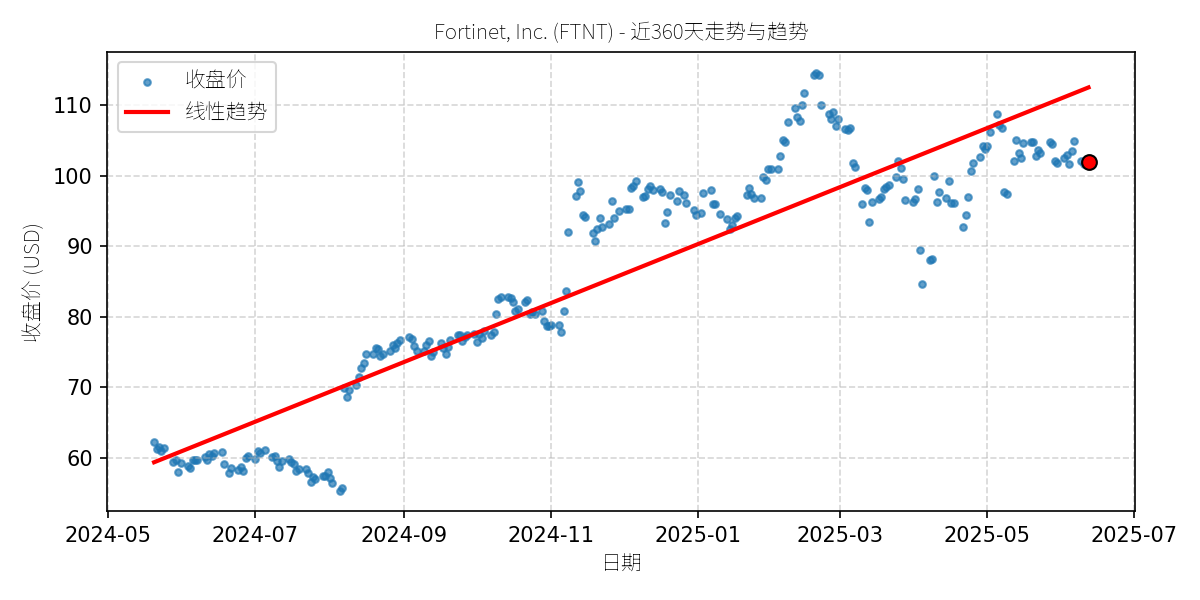
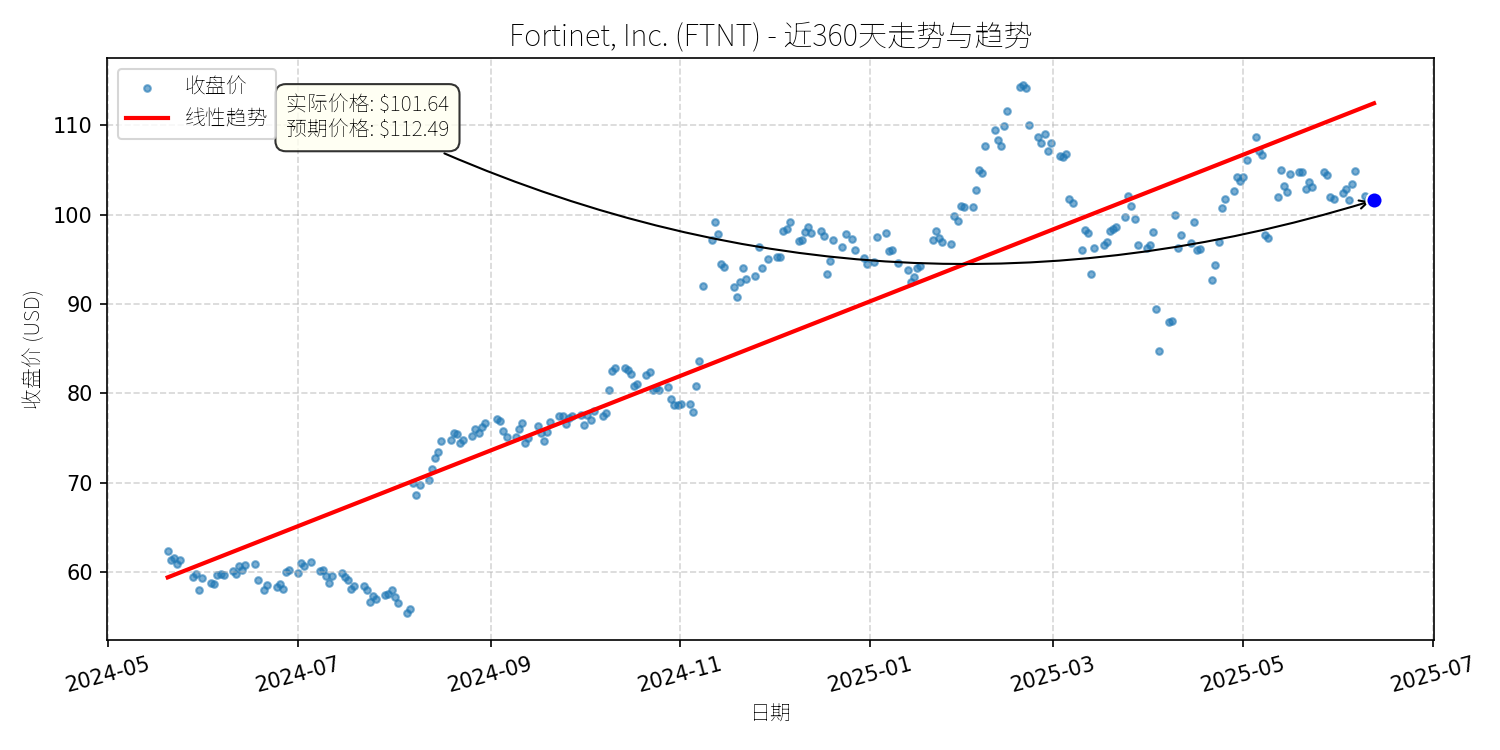
Update report for 2025-06-13

diff --git a/reports/2025-06-13/stock_report.html b/reports/2025-06-13/stock_report.html
@@ -106,7 +106,64 @@
 <div class="container">
     <h1>股票异动分析报告</h1>
     <p class="report-date">报告生成日期: 2025-06-13</p>
-<p>今日未发现符合条件的异常股票。</p>
+<div class="toc"><h3>报告目录</h3><ul><li><a href="#FTNT">Fortinet, Inc. (FTNT)</a></li></ul></div><div class="stock-card" id="FTNT"><h2>Fortinet, Inc. (FTNT)</h2><div class='metrics'><span>R²: 0.826</span> <span>斜率: 0.14</span> <span>偏离度: 9.64%</span></div><img src='FTNT_chart.png' alt='FTNT 走势图' class='chart'><h3>分析师模型总结</h3><div class="summary-content"># Fortinet, Inc. (FTNT) 投资分析报告（2025-06-13）
+
+
+## **1. 核心业务与基本面评估**
+### **1.1 业务概述**  
+Fortinet是全球领先的网络安全解决方案供应商，核心业务围绕**“Security Fabric”**生态系统展开，涵盖下一代防火墙（Next-Gen Firewalls）、统一安全访问服务边缘（Unified SASE）、安全运营（SecOps）平台、云安全等50+企业级安全产品。公司服务于86万+客户，覆盖企业、政府及服务提供商，核心竞争力在于**自研定制芯片**（优化硬件与软件协同）及**全栈安全集成能力**（减少客户对多厂商的依赖）。
+
+
+### **1.2 财务健康与盈利能力**  
+- **营收与利润增长**：2014-2024年，营收CAGR达23%（2024年营收53亿美元），EPS CAGR高达54%（2024年EPS 1.47美元），显示强劲的成长能力。2025年Q1营收同比增长14%（超预期），调整后EPS增长35%，主要驱动来自Unified SASE（RPO同比增长19%）与SecOps（RPO同比增长18%）业务的快速渗透（两者占总RPO的1/3）。  
+- **财务稳健性**：债务权益比（Debt To Equity）为-16.66%（负数表示现金及等价物超过总债务），说明公司无偿债压力，现金流充足（2024年净收入11.5亿美元），具备抗风险能力。  
+- **估值水平**：当前PE（69.14x）显著高于纳斯达克100指数（29x）及行业均值（如CrowdStrike的105x、Palo Alto Networks的75x），但低于纯云安全厂商（如Zscaler的120x）；PS（14.66x）亦处于行业较高区间。**定性评估**：财务稳健、成长性强，但估值偏高（需业绩高增长支撑）。
+
+
+## **2. 技术面与消息面分析**
+### **2.1 技术面信号**  
+- **长期趋势**：图表显示，FTNT近360天呈**上升线性趋势**（红 line），趋势线斜率为正，说明长期多头主导。  
+- **当前偏离**：当前价格（101.64美元）显著低于趋势线预期价格（112.49美元），偏离幅度约10%，属于**技术性回调**（价格脱离长期趋势后的短期修正）。  
+- **支撑位与阻力位**：近期回调至100美元附近（2025年5月以来的重要支撑），若跌破可能测试95美元（2025年3月低点）；阻力位在110美元（趋势线附近）。
+
+
+### **2.2 回调原因分析**  
+- **直接触发因素**：2025年Q1财报（5月7日）后，股价下跌约8%，主要因**Q2 guidance 保守**（预期营收16.2亿美元，略低于市场共识的16.5亿美元，同比增长13%，较Q1的14%放缓）。市场担忧增长减速，叠加前期涨幅过大（2024年至今涨幅74%），引发短期抛售。  
+- **深层原因**：  
+  1. **估值压力**：PE（69x）与PS（14.66x）处于历史高位，需业绩超预期才能支撑估值；  
+  2. **行业竞争**：云安全厂商（如CrowdStrike）凭借AI-native架构抢占市场，Fortinet的“legacy on-premises firewall”业务被视为增长瓶颈（参考2025年4月24日新闻）；  
+  3. **宏观情绪**：2025年以来科技股整体回调（纳斯达克指数下跌10%）， cybersecurity板块虽相对抗跌，但FTNT因估值偏高易受情绪影响。  
+
+
+## **3. 综合前景展望与量化判断**
+### **3.1 核心投资逻辑**  
+Fortinet是**“基本面优秀+短期情绪压制”**的典型案例：  
+- **长期支撑**：行业高增长（网络安全市场2024-2032年CAGR 15.29%，应用网关市场CAGR 10.2%）；公司Unified SASE与SecOps业务快速增长（RPO增速超整体）；管理层提到“2025年下半年将迎来record firewall upgrade cycle”（驱动营收反弹）。  
+- **短期压制**：Q2 guidance 保守引发的估值担忧，及科技股回调的情绪传导。**无重大基本面恶化**（如营收下滑、客户流失），回调属于**技术性调整+情绪释放**。
+
+
+### **3.2 短期展望（未来1-4周）**  
+- **走势预测**：**盘整后小幅反弹**（概率70%）。  
+  理由：100美元附近有强支撑（2025年5月低点），市场已消化Q2 guidance的利空；管理层强调下半年upgrade cycle，短期情绪有望修复。  
+- **短期目标价**：110美元（趋势线附近）。  
+  **涨跌幅空间**：(110 - 101.64) / 101.64 ≈ +8.2%。
+
+
+### **3.3 长期展望（未来3-6个月）**  
+- **趋势判断**：**看好**（概率80%），有望重回长期上升趋势。  
+  理由：  
+  1. **行业驱动**：网络安全是“刚需”（ cyber威胁升级、数字化转型加速），市场规模2032年将达797亿美元（CAGR 15.29%），Fortinet作为头部厂商（市场份额约8%）将持续受益；  
+  2. **业务升级**：Unified SASE（整合网络与安全）与SecOps（AI驱动的安全运营）业务占比提升（当前占RPO的1/3），将推动营收结构优化（高毛利的云服务占比增加）；  
+  3. **估值修复**：若2025年下半年营收超预期（如Q3营收增长15%以上），PE将从69x降至60x以下（仍高于行业均值，但符合成长股定位）。  
+- **长期目标价**：120美元（基于2026年EPS预期1.7美元，给予70x PE；或2026年营收预期65亿美元，给予18x PS）。  
+  **涨跌幅空间**：(120 - 101.64) / 101.64 ≈ +18.1%。
+
+
+## **结论**  
+Fortinet是**长期价值投资标的**，短期回调提供了买入机会。建议**短期（1-4周）逢低布局**（100-105美元区间），**长期（3-6个月）持有**，等待行业增长与业务升级驱动的估值修复。
+
+
+**风险提示**：1. 行业竞争加剧（如CrowdStrike、Palo Alto Networks抢占市场）；2. 宏观经济下行导致企业IT预算收缩；3. 技术迭代风险（如AI-native架构替代传统防火墙）。</div></div>
 </div>
 <script>
     // 在页面加载完成后，执行 Markdown 渲染
